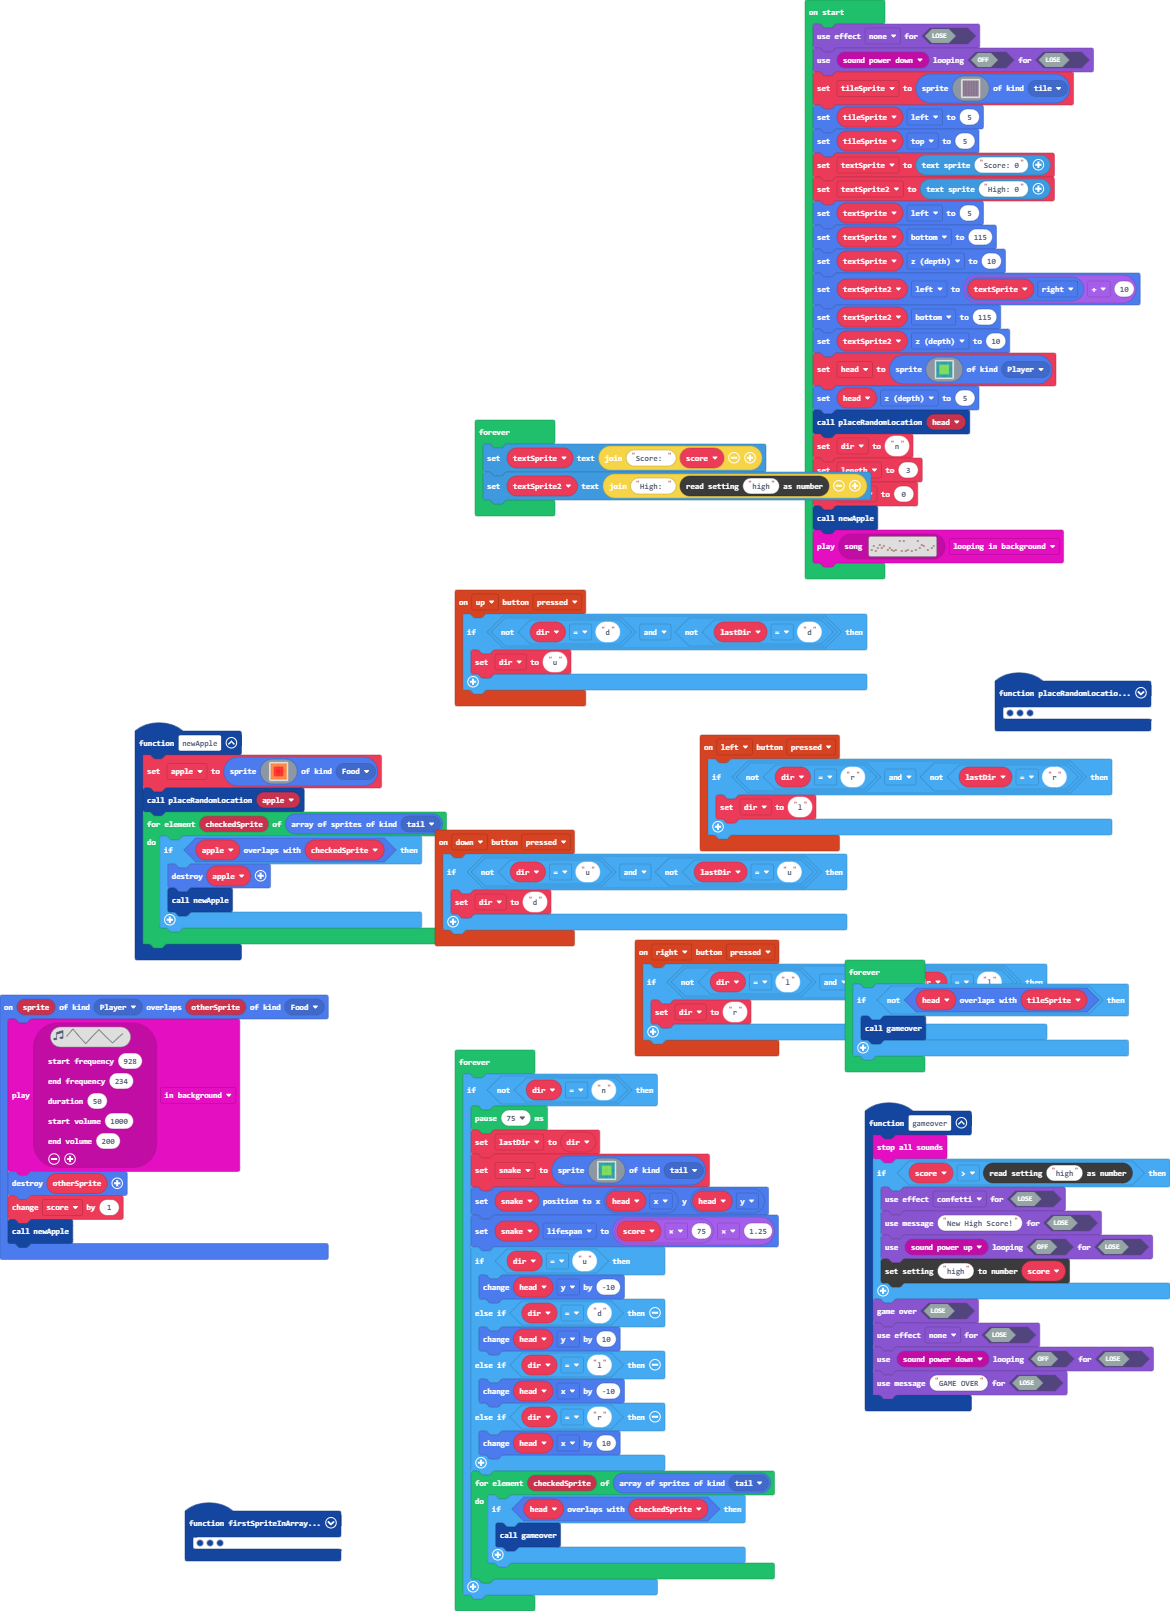
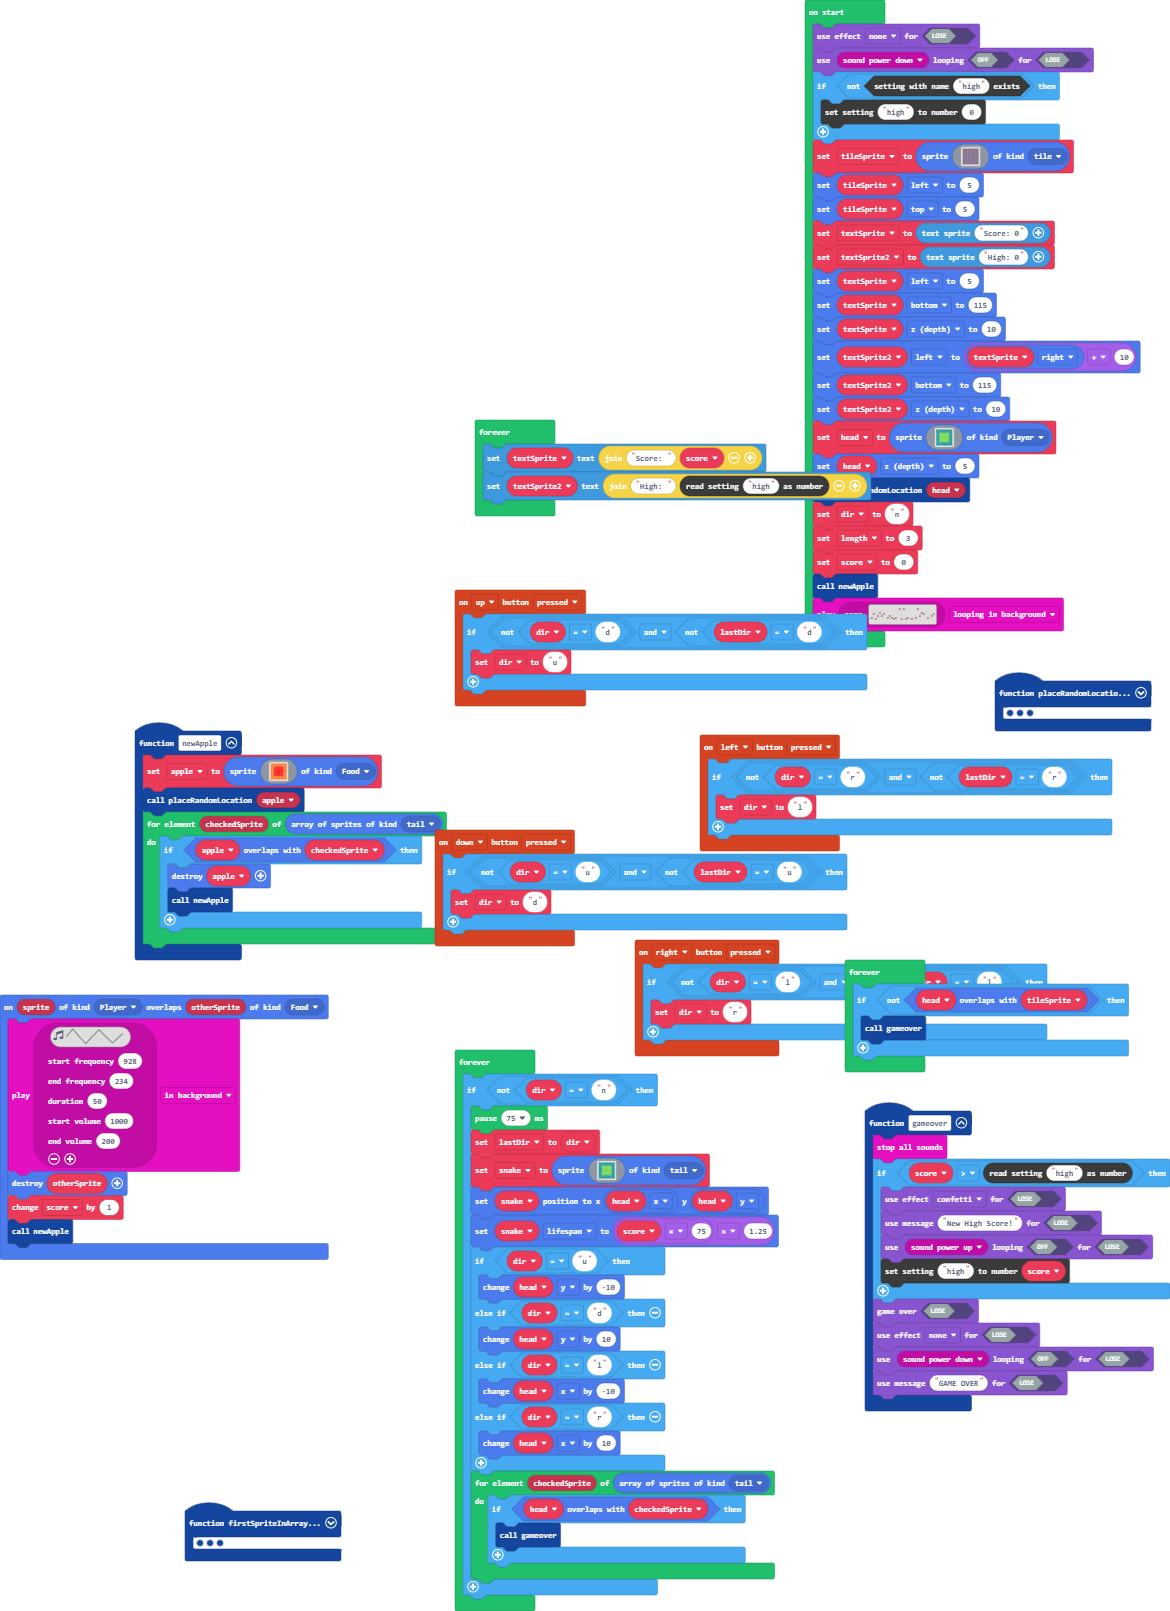
Update pxt.json, main.blocks, main.ts

Changed region(s): [[0.6769, 0.031, 0.9846, 0.4035]]

diff --git a/main.ts b/main.ts
@@ -84,6 +84,9 @@ let score = 0
 let dir = ""
 game.setGameOverEffect(false, effects.none)
 game.setGameOverPlayable(false, music.melodyPlayable(music.powerDown), false)
+if (!(blockSettings.exists("high"))) {
+    blockSettings.writeNumber("high", 0)
+}
 let tileSprite = sprites.create(img`
     bbbbbbbbbbbbbbbbbbbbbbbbbbbbbbbbbbbbbbbbbbbbbbbbbbbbbbbbbbbbbbbbbbbbbbbbbbbbbbbbbbbbbbbbbbbbbbbbbbbb
     bccccccccbbccccccccbbccccccccbbccccccccbbccccccccbbccccccccbbccccccccbbccccccccbbccccccccbbccccccccb
